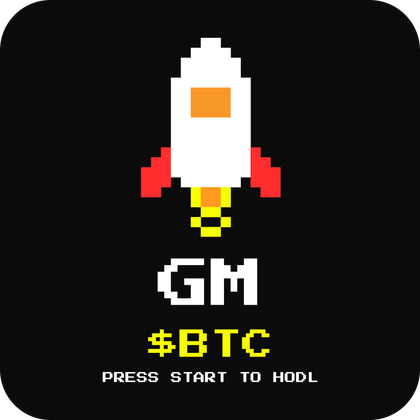
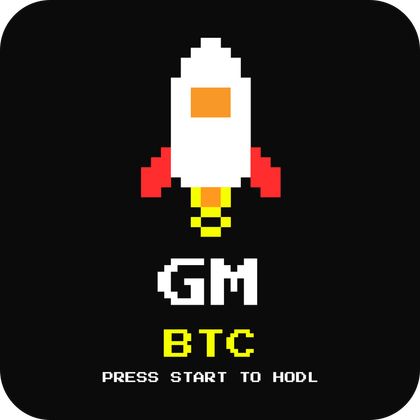
Drop the $ cashtag from tickers on prints, titles and UI; re-render script for existing products

Changed region(s): [[0.3405, 0.7738, 0.65, 0.8667]]

diff --git a/src/lib/generate.ts b/src/lib/generate.ts
@@ -192,35 +192,16 @@ export interface GenerateOptions extends DesignChoice {
 }
 
 /**
- * Full generation: build print asset -> persist Design -> (Printful file upload
- * + mockups + pricing) -> persist Product. Printful steps are skipped when no
- * token is set or the print file isn't publicly reachable.
+ * Printful file upload + mockups + pricing for a rendered asset (best-effort).
+ * Skipped when no token is set or the print file isn't publicly reachable.
  */
-export async function generateProduct(opts: GenerateOptions): Promise<Product> {
-  const blankType: BlankType = opts.blankType ?? "tee";
+export async function printfulListing(asset: PrintAsset, blankType: BlankType) {
   const blank = getBlank(blankType);
-
-  const asset = await buildPrintAsset(opts.query, opts, blankType);
-  const { ticker, mode, style, slogan, sloganLines, base } = asset;
-
-  const design = await prisma.design.create({
-    data: {
-      logoId: asset.logoId ?? (await ensurePlaceholderLogo(ticker)),
-      mode,
-      template: mode === "EXACT" ? "exact" : style,
-      style,
-      slogan,
-      printFileUrl: asset.printUrl,
-      printFileKey: asset.printKey,
-      previewUrl: asset.previewUrl,
-    },
-  });
-
-  // ---- Printful: upload file, mockups, pricing (best-effort) ----
   let mockupUrls: string[] = [];
   let variants: unknown[] = [];
   let baseCostCents = 0;
   const priceCents = retailPriceCents(blankType);
+  const { base } = asset;
 
   const printIsPublic = /^https?:\/\//.test(asset.printUrl);
   if (process.env.PRINTFUL_API_TOKEN && printIsPublic) {
@@ -271,10 +252,41 @@ export async function generateProduct(opts: GenerateOptions): Promise<Product> {
     }
   }
 
+  return { mockupUrls, variants, baseCostCents };
+}
+
+/**
+ * Full generation: build print asset -> persist Design -> (Printful file upload
+ * + mockups + pricing) -> persist Product. Printful steps are skipped when no
+ * token is set or the print file isn't publicly reachable.
+ */
+export async function generateProduct(opts: GenerateOptions): Promise<Product> {
+  const blankType: BlankType = opts.blankType ?? "tee";
+  const blank = getBlank(blankType);
+
+  const asset = await buildPrintAsset(opts.query, opts, blankType);
+  const { ticker, mode, style, slogan, sloganLines, base } = asset;
+
+  const design = await prisma.design.create({
+    data: {
+      logoId: asset.logoId ?? (await ensurePlaceholderLogo(ticker)),
+      mode,
+      template: mode === "EXACT" ? "exact" : style,
+      style,
+      slogan,
+      printFileUrl: asset.printUrl,
+      printFileKey: asset.printKey,
+      previewUrl: asset.previewUrl,
+    },
+  });
+
+  const { mockupUrls, variants, baseCostCents } = await printfulListing(asset, blankType);
+  const priceCents = retailPriceCents(blankType);
+
   // Persist product (unique slug with collision retry).
   const styleLabel = mode === "EXACT" ? "Logo" : STYLES.find((x) => x.id === style)!.label;
   const sloganText = sloganLines ? ` “${titleCase(sloganLines.join(" "))}”` : "";
-  const title = `$${ticker}${sloganText} ${styleLabel} ${blank.label}`;
+  const title = `${ticker}${sloganText} ${styleLabel} ${blank.label}`;
   const slug = slugify(`${ticker}-${mode === "EXACT" ? "logo" : style}-${slogan ?? ""}-${blankType}`);
   const status = mockupUrls.length ? "ACTIVE" : "DRAFT";
 

diff --git a/src/components/GenerateClient.tsx b/src/components/GenerateClient.tsx
@@ -124,8 +124,8 @@ export function GenerateClient({
               <span className="text-[var(--red)]">{error}</span>
             ) : preview ? (
               preview.found
-                ? `Found $${preview.ticker}${preview.name ? ` (${preview.name})` : ""}.`
-                : `No logo found for $${preview.ticker}, so it prints as type only. Still slaps.`
+                ? `Found ${preview.ticker}${preview.name ? ` (${preview.name})` : ""}.`
+                : `No logo found for ${preview.ticker}, so it prints as type only. Still slaps.`
             ) : null}
           </p>
         </Step>
@@ -181,7 +181,7 @@ export function GenerateClient({
                   onClick={() => setSlogan(s.id)}
                   aria-pressed={slogan === s.id}
                   className={`chip ${slogan === s.id ? "chip-on" : ""} ${s.coins ? "border-dashed" : ""}`}
-                  title={s.coins ? `$${s.coins[0]} special` : undefined}
+                  title={s.coins ? `${s.coins[0]} special` : undefined}
                 >
                   {s.lines.join(" ")}
                 </button>
@@ -227,7 +227,7 @@ export function GenerateClient({
             // eslint-disable-next-line @next/next/no-img-element
             <img
               src={preview.previewDataUri}
-              alt={`$${preview.ticker} ${styleLabel} design`}
+              alt={`${preview.ticker} ${styleLabel} design`}
               className={`h-full w-full object-contain p-6 transition-opacity ${loading ? "opacity-40" : ""}`}
             />
           ) : (
@@ -243,7 +243,7 @@ export function GenerateClient({
         <div className="mt-5 flex flex-wrap items-center justify-between gap-4">
           <div>
             <p className="display text-2xl">
-              {preview ? `$${preview.ticker}` : "Your coin"} · {styleLabel} {BLANKS[blank].label}
+              {preview ? `${preview.ticker}` : "Your coin"} · {styleLabel} {BLANKS[blank].label}
             </p>
             {sloganLabel && <p className="text-sm text-[var(--dim)]">&ldquo;{sloganLabel}&rdquo; · size {size}</p>}
           </div>
@@ -256,7 +256,7 @@ export function GenerateClient({
           onClick={() => {
             if (!preview) return;
             add({
-              title: `$${preview.ticker}${sloganLabel ? ` “${sloganLabel}”` : ""} ${styleLabel} ${BLANKS[blank].label}`,
+              title: `${preview.ticker}${sloganLabel ? ` “${sloganLabel}”` : ""} ${styleLabel} ${BLANKS[blank].label}`,
               blankType: blank,
               mode: "STYLIZED",
               style,

diff --git a/src/lib/timeline.ts b/src/lib/timeline.ts
@@ -13,5 +13,5 @@ export const TIMELINE: { style: StyleId; ticker: string; slogan: string; seen: s
   { style: "receipt", ticker: "SOL", slogan: "dont-ask", seen: "The look, as a receipt." },
   { style: "chart", ticker: "XRP", slogan: "green-candle", seen: "XRP Ledger was trending." },
   { style: "stamp", ticker: "ZEC", slogan: "privacy-normal", seen: "ZEC is back on the timeline." },
-  { style: "pixel", ticker: "STRK", slogan: "shill-me", seen: "$STRK was trending. Shill us yours." },
+  { style: "pixel", ticker: "STRK", slogan: "shill-me", seen: "STRK was trending. Shill us yours." },
 ];

diff --git a/src/app/shop/page.tsx b/src/app/shop/page.tsx
@@ -66,7 +66,7 @@ export default async function Shop({ searchParams }: { searchParams: Params }) {
             <span className="label mb-0 mr-2 w-16">Coin</span>
             <Chip to={href(current, { coin: undefined })} on={!current.coin}>All</Chip>
             {coins.map((c) => (
-              <Chip key={c} to={href(current, { coin: c })} on={current.coin === c}>${c}</Chip>
+              <Chip key={c} to={href(current, { coin: c })} on={current.coin === c}>{c}</Chip>
             ))}
           </div>
         )}

diff --git a/src/app/api/checkout/route.ts b/src/app/api/checkout/route.ts
@@ -81,7 +81,7 @@ export async function POST(req: NextRequest) {
       // Snapshot the normalized design so fulfillment reprints exactly this.
       ...(await designChoice(it)),
       priceCents: retailPriceCents(it.blankType),
-      title: it.title || `$${it.query.toUpperCase()} ${it.blankType}`,
+      title: it.title || `${it.query.toUpperCase()} ${it.blankType}`,
     }))
   );
   const subtotalCents = priced.reduce((s, i) => s + i.priceCents * i.qty, 0);

diff --git a/src/app/page.tsx b/src/app/page.tsx
@@ -142,7 +142,7 @@ export default async function Home() {
                 {/* eslint-disable-next-line @next/next/no-img-element */}
                 <img
                   src={m.image}
-                  alt={`$${m.ticker} “${m.text}” design`}
+                  alt={`${m.ticker} “${m.text}” design`}
                   className="h-full w-full object-contain"
                   loading="lazy"
                 />

diff --git a/src/lib/design/templates-street.tsx b/src/lib/design/templates-street.tsx
@@ -50,7 +50,7 @@ const frame = (extra: React.CSSProperties = {}): React.CSSProperties => ({
   ...extra,
 });
 
-const tickerText = (p: TemplateProps) => `$${p.ticker.toUpperCase()}`;
+const tickerText = (p: TemplateProps) => p.ticker.toUpperCase();
 
 /* ---------------------------------------------------------------- box */
 
